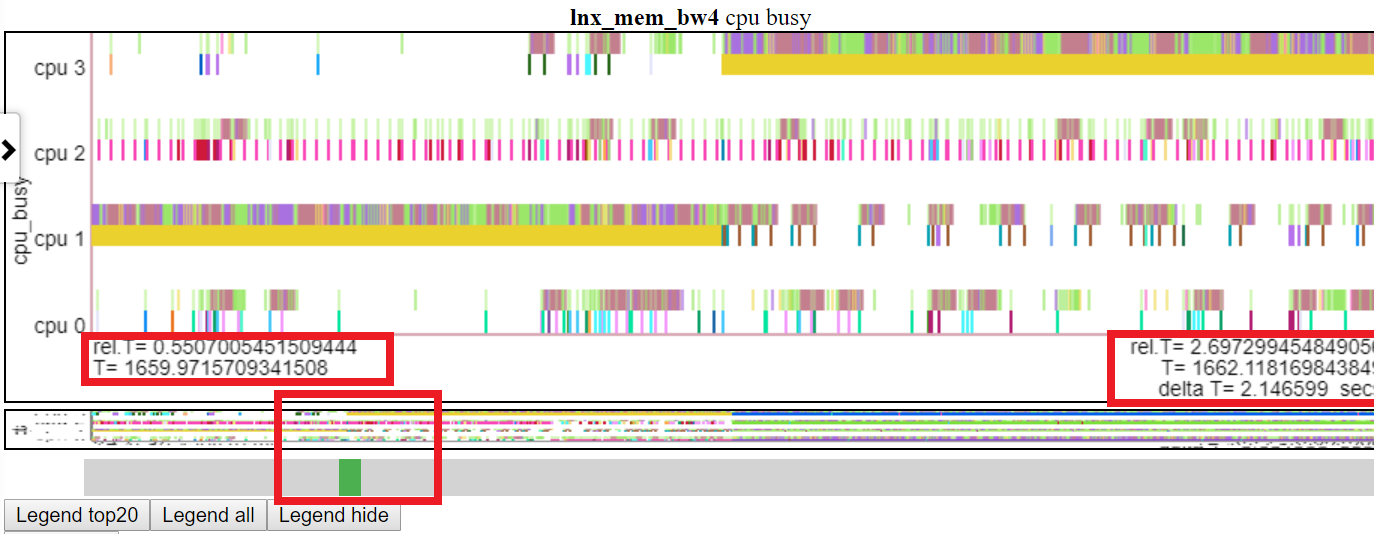
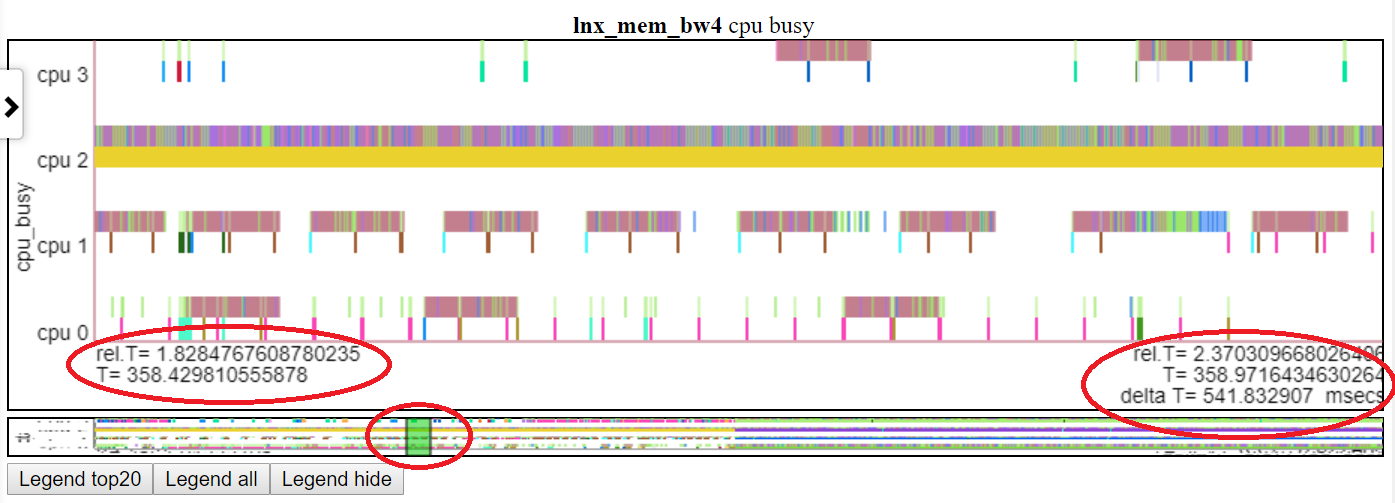
add new picture of thumbnail slider and update text a little

diff --git a/README.md b/README.md
@@ -106,10 +106,10 @@ Viz general info
 
 - panning 
     - on my laptop this is doing 2 fingers on horizontal scroll motion on the touchpad
-    - using the slider below the chart 
+    - using the green box on the thumbnail below the chart 
     - panning works at any zoom level
-    - a 'small squashed' picture of the full chart is put below each chart with a slider bar so you can navigate around the chart when you are zooming/panning
-    - Below shows panning the 'cpu busy' chart to T=0.55-2.67 seconds. The relative time and absolute begin time is highlighed in the left red box. The end time is highlighted in the right red box. The relative position on the slider is shows by the middle red box.
+    - a 'thumbnail' picture of the full chart is put below each chart with a cursor to slide along the thumbnail so you can navigate around the chart when you are zooming/panning
+    - Below shows panning the 'cpu busy' chart to T=1.8-2.37 seconds. The relative time and absolute begin time is highlighed in the left red oval. The end time is highlighted in the right-side red oval. The relative position on the thumbnail is shown by the middle red oval.
     - ![screen shot of panning](images/pan_1.png).
 - hovering on a chart legend entry highlights that line. 
     - Below is a screenshot where 'pkg' (package) power is highlighted
